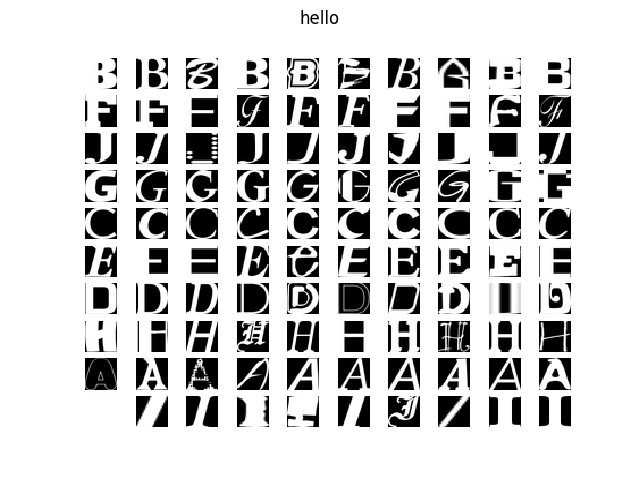
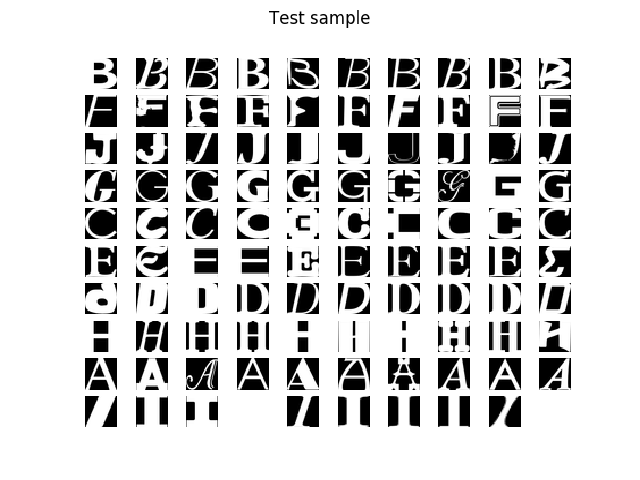
[lab001] Fix typo

diff --git a/lab001/main.py b/lab001/main.py
@@ -42,4 +42,6 @@ train_sample_folder = './notMNIST_large'
 
 train_sample = load_images_from_folder(train_sample_folder)
 test_sample = load_images_from_folder(test_sample_folder)
-plot_samples(test_sample, 10, 'hello')
+
+plot_samples(test_sample, 10, 'Test sample')
+plot_samples(train_sample, 10, 'Train sample')
